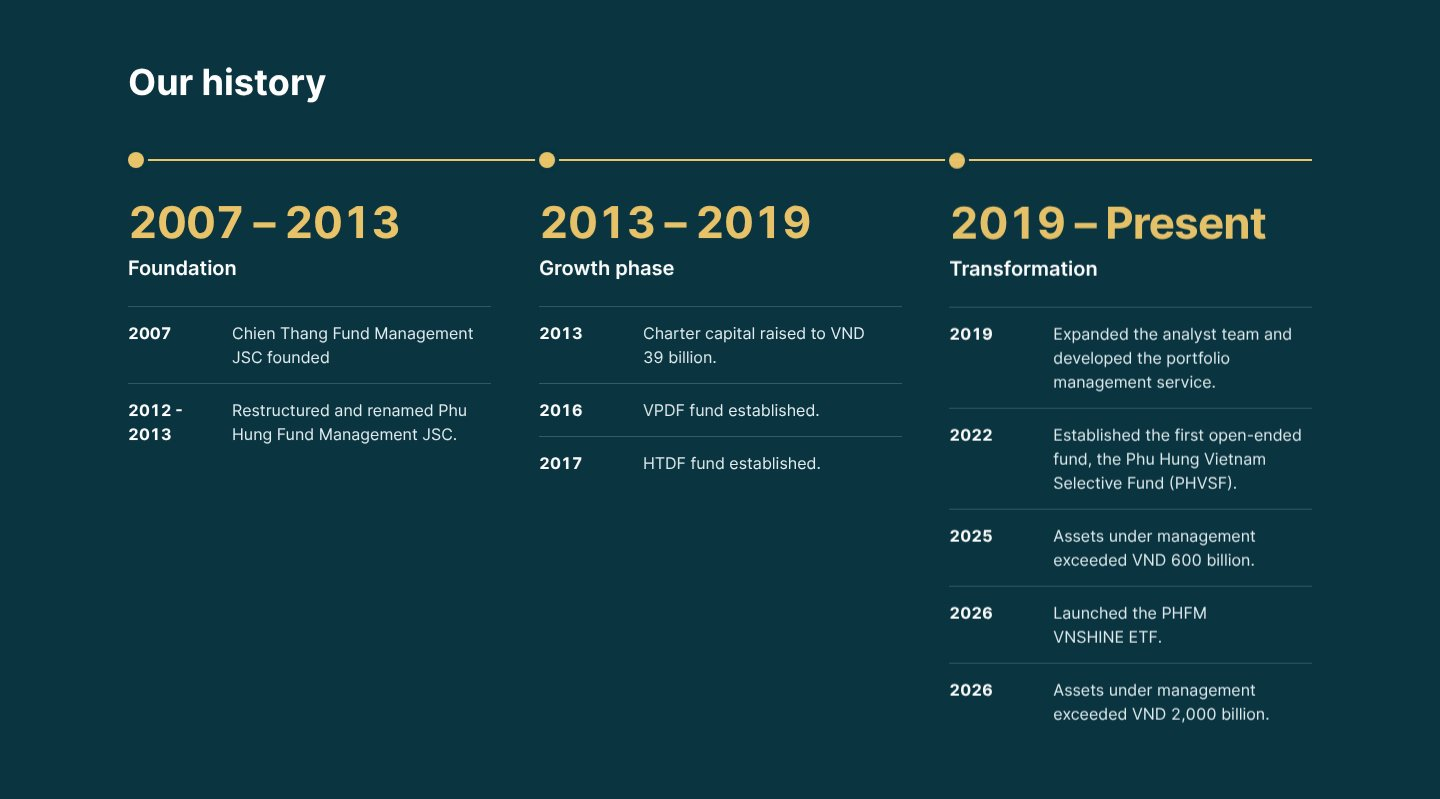
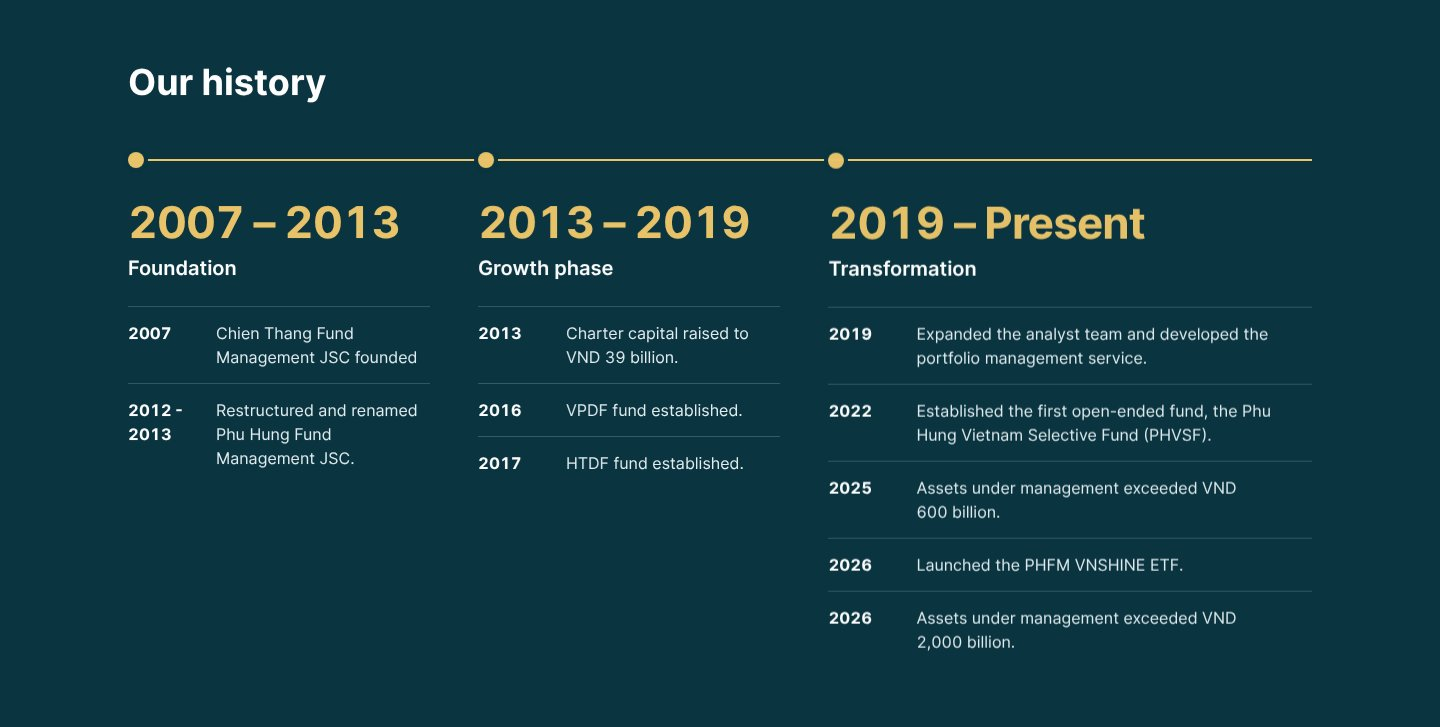
R4-03: sửa review vòng 1, giảm khoảng trống dưới cột 1 và 2
Từ 1024px cột 3 rộng gấp 1,6 lần để ba cột cao gần bằng nhau
(khối 679px VI, 727px EN ở 1440; trước đó 799px). Cột mốc năm 72px.

Claude-Session: https://claude.ai/code/session_01972Ho4cVfY1nWby66M8dMW

diff --git a/src/parts/r4.css b/src/parts/r4.css
@@ -71,6 +71,11 @@
 .ab-j-y{font-size:16px;line-height:24px;font-weight:700;color:#fff;font-variant-numeric:tabular-nums}
 .ab-j-tx{font-size:16px;line-height:24px;color:#E3EEF0;text-wrap:pretty}
 @media(min-width:1024px) and (max-width:1279px){.ab-j-in{padding-left:32px;padding-right:32px}.ab-j-cols{gap:32px}}
+/* cột 3 có nhiều mốc nhất: cho rộng hơn để các cột cao gần bằng nhau, không để mảng nền trống dưới cột 1 và 2 */
+@media(min-width:1024px){
+  .ab-j-cols{grid-template-columns:minmax(0,1fr) minmax(0,1fr) minmax(0,1.6fr)}
+  .ab-j-it{grid-template-columns:72px minmax(0,1fr)}
+}
 @media(max-width:1023px){
   .ab-j-in{padding:56px 32px 64px}
   .ab-j-cols{grid-template-columns:minmax(0,1fr);gap:48px;padding-left:36px;max-width:720px}

diff --git a/specs/changelog.md b/specs/changelog.md
@@ -49,4 +49,4 @@ Cột: Trang | Thay đổi | Lý do. Vòng mới nối thêm ở cuối bảng.
 | Góc nhìn & Tin tức | Thay 10 ảnh bài viết (N1–N10) bằng `r5_nw_*`; ba ảnh tin sự kiện giữ nguyên | Ảnh báo tài chính ban ngày, mỗi bài một ảnh (#14) |
 | Toàn site | Xoá 16 ảnh cũ không còn dùng khỏi `assets/img` (ab_hero, advisor, team, nw_city, pk_I05, pk_I07, pk_I12–I15, pk_I17, pk_I18, r3_adv_hero, r3_vns_hero, r3_nw_msci, r3_nw_rot). Thêm `qa/check-images.js` kiểm từng vị trí hiện đúng khoá ảnh và không trùng khoá | Dọn ảnh thừa sau R4-09 |
 | VNSHINE, PHVSF | Ô giá ở hero: hàng chỉ số (Giá đóng cửa · NAV/CCQ · Ngày) thành lưới `.px-row`, số 28px, nhãn và đơn vị 12px, đơn vị nằm dưới số; không còn `flex-wrap` đẩy Ngày xuống hàng. Desktop VNSHINE 3 cột cách đều, PHVSF 2 cột; mobile VNSHINE Giá + NAV một hàng, Ngày hàng dưới thẳng cột, PHVSF mỗi chỉ số một hàng. Bảng hiệu quả tự ẩn cột mà mọi hàng đều "—" (VNSHINE: 3 tháng) và thêm dòng ghi chú ngày niêm yết (lấy từ `PHFM_ANCHORS[quỹ].start`, chỉ hiện khi có cột bị ẩn; EN viết ngày bằng chữ "10 September 2026"; bản 中文 ẩn cột nhưng chưa có ghi chú, chờ duyệt). Số liệu không đổi | Bỏ khoảng trống thừa trong ô giá, bỏ cột trống trông như lỗi (#5) |
-| Về chúng tôi | Lịch sử hình thành (`#ab-journey`): nền teal đậm `#0A3440`, ba giai đoạn thành ba cột (năm lớn vàng `#E9C46A` 44px, tên giai đoạn trắng, danh sách năm/sự kiện chữ trắng và mist), trục ngang vàng nối ba điểm mốc. Bỏ khung thẻ trắng cao bằng nhau. Dưới 1024px: một cột, trục dọc bên trái. Dữ liệu `phases` giữ nguyên (10 mốc, chữ VI/EN/中文 không đổi) | Khung trắng kéo cao bằng nhau để trống nhiều dưới cột 1 và 2 (#4) |
+| Về chúng tôi | Lịch sử hình thành (`#ab-journey`): nền teal đậm `#0A3440`, ba giai đoạn thành ba cột (năm lớn vàng `#E9C46A` 44px, tên giai đoạn trắng, danh sách năm/sự kiện chữ trắng và mist), trục ngang vàng nối ba điểm mốc. Bỏ khung thẻ trắng cao bằng nhau. Từ 1024px cột 3 (nhiều mốc nhất) rộng gấp 1,6 lần để ba cột cao gần bằng nhau (chênh ~135px ở 1440 VI). Dưới 1024px: một cột, trục dọc bên trái. Dữ liệu `phases` giữ nguyên (10 mốc, chữ VI/EN/中文 không đổi) | Khung trắng kéo cao bằng nhau để trống nhiều dưới cột 1 và 2 (#4) |
